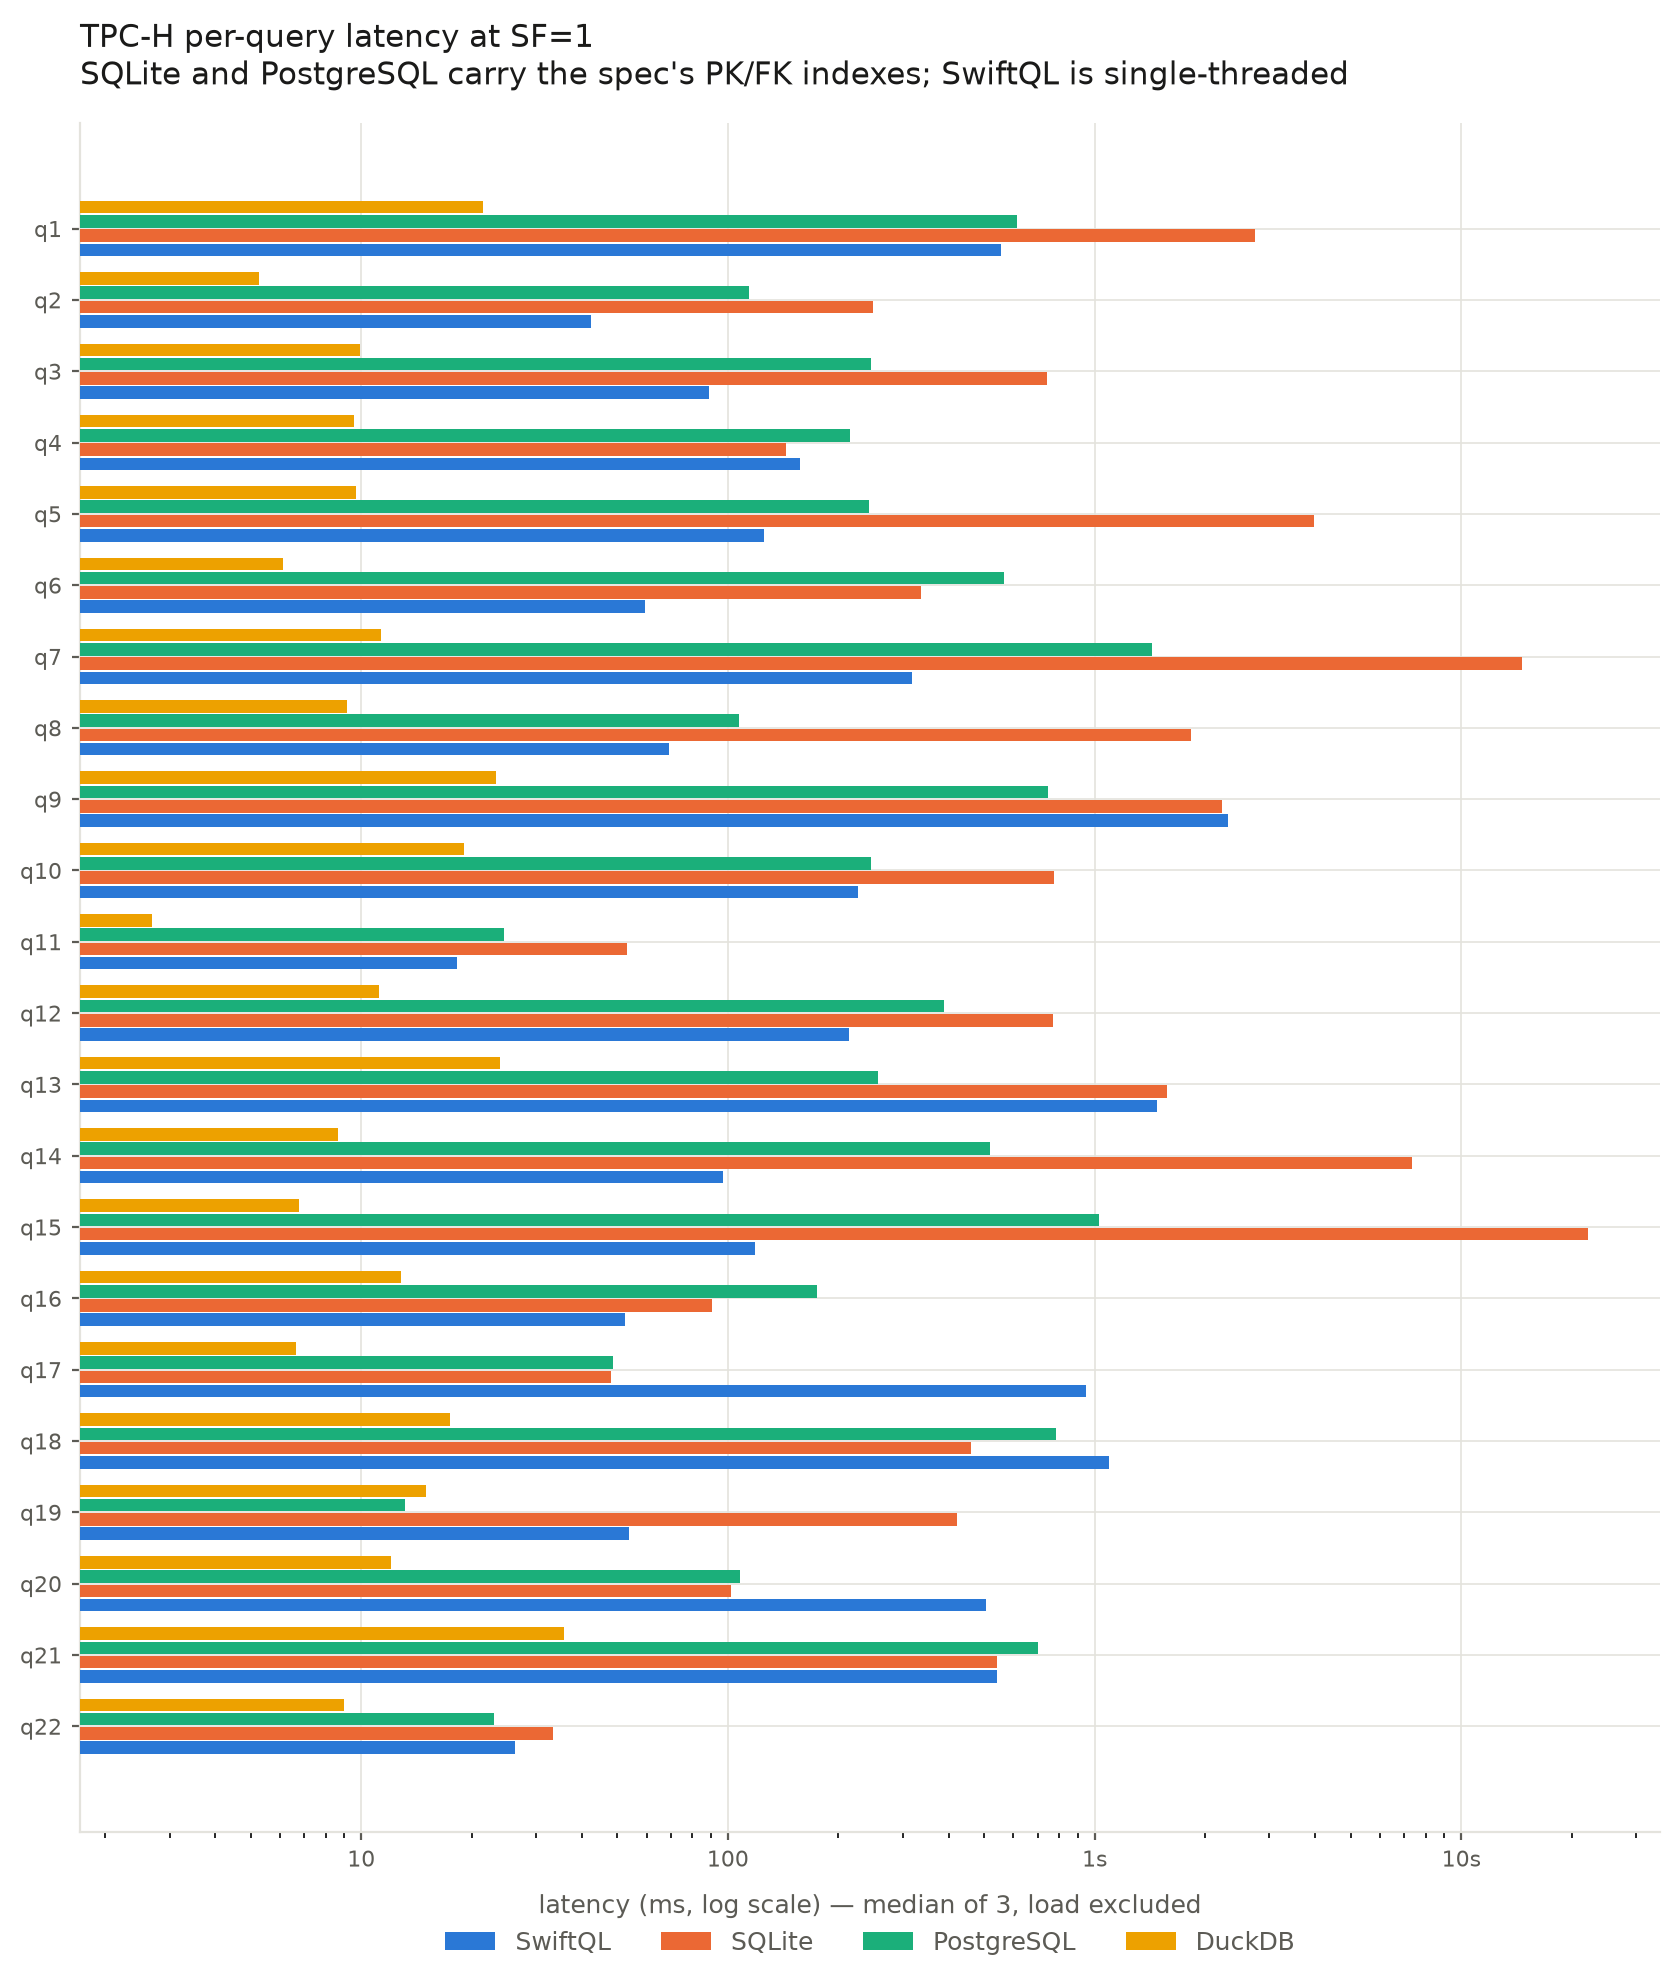
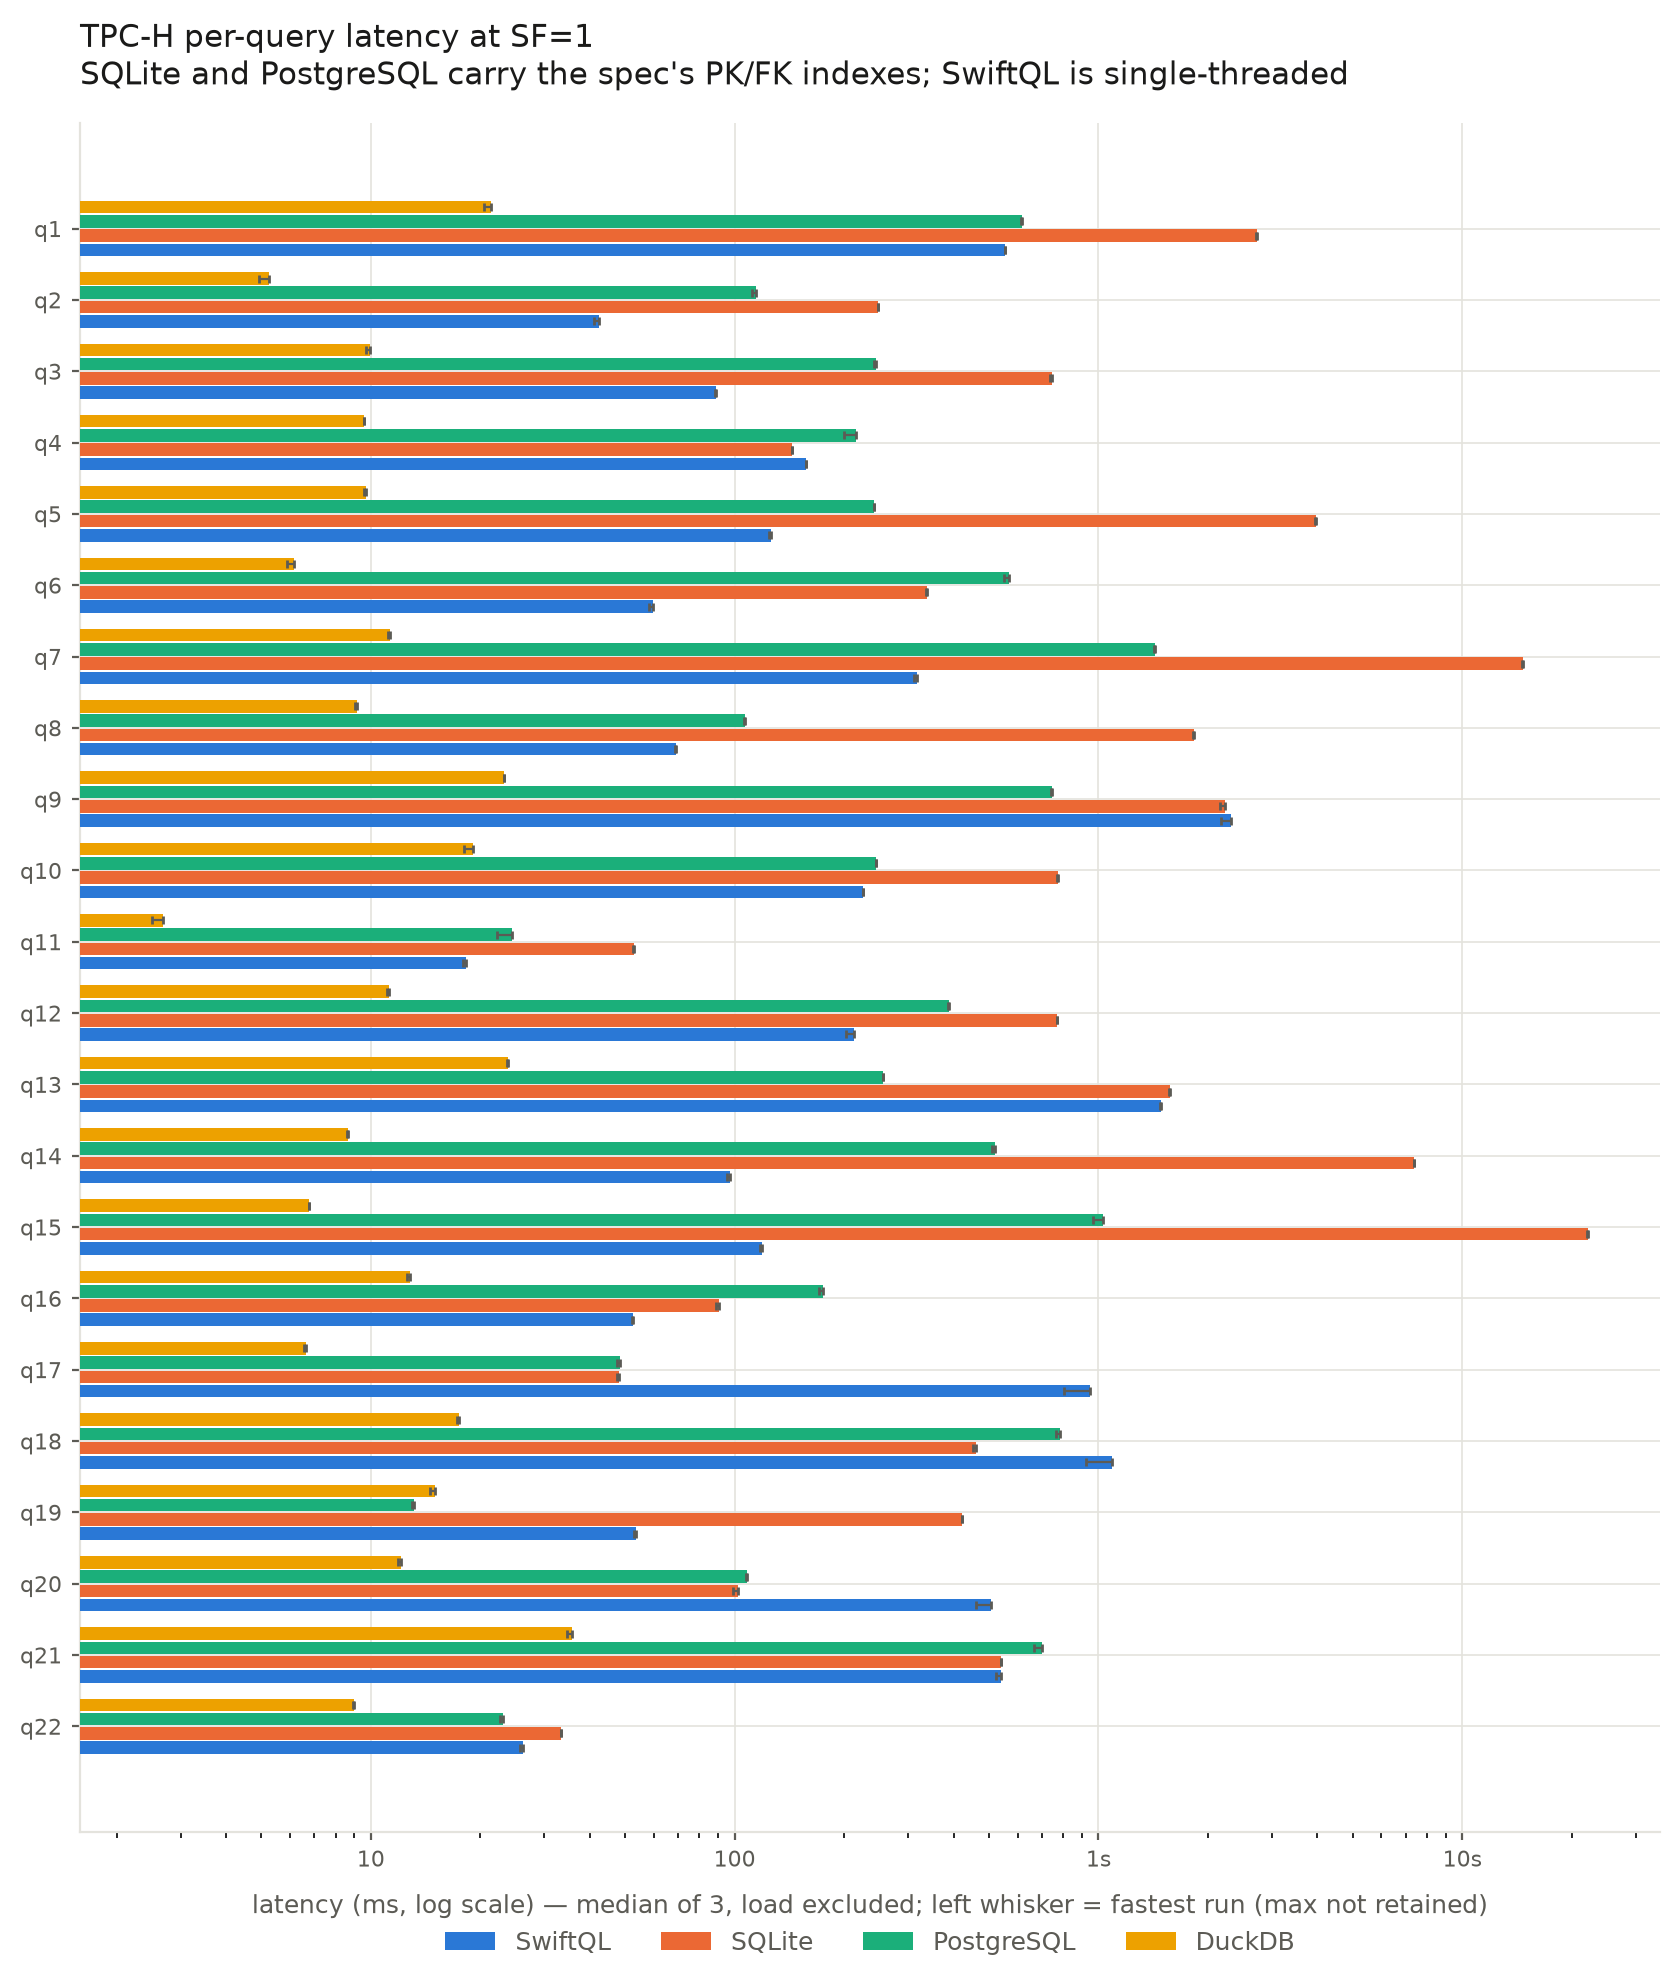
docs(figures): show the measurement uncertainty the retraction rests on
The paper now says no margin under ~1.3x on this machine is a result, but every
figure still showed a bare median. A reader could not see the thing we had just
learned.

fig5 is new: per-query SwiftQL / PostgreSQL at SF=1 over 5 repetitions, each
point carrying a bar from its best case (SwiftQL min vs PG max) to its worst
(SwiftQL max vs PG min), against a shaded band inside which a ratio cannot be
told from parity. Six of the 21 queries straddle that band, which is the visual
form of the argument in section 5.2.

fig1 gains ONE-SIDED whiskers and the axis label says so. Those three comparison
runs retained the median and the minimum only -- the maximum was not kept, and
fig5 shows the upward tail is the larger one. Drawing a symmetric bar from the
minimum would have invented the half we do not have, which is the same class of
mistake as quoting a median with no spread at all.

Changed region(s): [[0.2167, 0.9366, 0.7119, 0.9678], [0.8048, 0.9366, 0.8667, 0.9678], [0.1548, 0.9366, 0.1857, 0.9678]]

diff --git a/python_tools/make_figures.py b/python_tools/make_figures.py
@@ -92,13 +92,23 @@ def fig_per_query(sf1):
     for k, e in enumerate(engines):
         ys = [i + (1.5 - k) * h for i in range(len(qs))]
         vals = [res[f"{q}|{e}"]["ms"] for q in qs]
+        # ONE-SIDED whiskers, and the caption says so. These runs retained the
+        # median and the MINIMUM only; the maximum was not kept, and the upward
+        # tail is the larger one (see fig5). Drawing a symmetric bar from the
+        # minimum would invent the half we do not have.
+        lo = [max(v - res[f"{q}|{e}"].get("min_ms", v), 0.0)
+              for q, v in zip(qs, vals)]
         ax.barh(ys, vals, height=h * 0.88, color=COLOR[e], label=LABEL[e],
-                zorder=3, linewidth=0)
+                zorder=3, linewidth=0,
+                xerr=[lo, [0.0] * len(vals)],
+                error_kw=dict(ecolor=MUTED, elinewidth=0.8, capsize=1.5, zorder=4))
     ax.set_yticks(range(len(qs)))
     ax.set_yticklabels(qs)
     ax.invert_yaxis()
     ax.set_xscale("log")
-    ax.set_xlabel("latency (ms, log scale) — median of 3, load excluded", color=MUTED, fontsize=9, labelpad=8)
+    ax.set_xlabel("latency (ms, log scale) — median of 3, load excluded; "
+                  "left whisker = fastest run (max not retained)",
+                  color=MUTED, fontsize=9, labelpad=8)
     ax.xaxis.set_major_formatter(FuncFormatter(
         lambda v, _: f"{v:g}" if v < 1000 else f"{v/1000:g}s"))
     ax.set_title("TPC-H per-query latency at SF=1\n"
@@ -202,6 +212,61 @@ def fig_qerror(paths):
     plt.close(fig)
 
 
+# ------------------------------------------------- 5. measurement uncertainty
+
+def fig_variance(path):
+    """Per-query SwiftQL/Postgres ratio at SF=1 with min-max bars.
+
+    This is the figure the retraction rests on. A ratio chart with a parity rule
+    answers the only question that matters -- is the margin bigger than the
+    noise -- and the answer is visibly no for most queries.
+    """
+    d = load(path)
+    res = d["results"]
+    qs = [f"q{i}" for i in range(1, 23)
+          if f"q{i}|swiftql" in res
+          and res[f"q{i}|swiftql"]["rows"] == res[f"q{i}|postgres"]["rows"]]
+
+    mid, lo, hi = [], [], []
+    for q in qs:
+        a, b = res[f"{q}|swiftql"], res[f"{q}|postgres"]
+        m = a["ms"] / b["ms"]
+        mid.append(m)
+        lo.append(m - a["min_ms"] / b["max_ms"])     # best case for SwiftQL
+        hi.append(a["max_ms"] / b["min_ms"] - m)     # worst case for SwiftQL
+
+    order = sorted(range(len(qs)), key=lambda i: mid[i])
+    qs = [qs[i] for i in order]
+    mid = [mid[i] for i in order]
+    lo = [max(lo[i], 0.0) for i in order]
+    hi = [max(hi[i], 0.0) for i in order]
+
+    fig, ax = plt.subplots(figsize=(7.5, 6))
+    # The band where a ratio cannot be distinguished from parity, taken from the
+    # measured median relative spread (~11%) rather than chosen.
+    ax.axvspan(1 / 1.3, 1.3, color=GRID, zorder=1)
+    ax.annotate("within measurement noise", (1.0, len(qs) - 0.4), color=MUTED,
+                fontsize=8, ha="center")
+    ax.errorbar(mid, range(len(qs)), xerr=[lo, hi], fmt="o",
+                color=COLOR["swiftql"], ecolor=MUTED, elinewidth=1.2,
+                capsize=3, markersize=6, linewidth=0, zorder=3)
+    ax.axvline(1.0, color=MUTED, linewidth=1, linestyle=(0, (4, 3)), zorder=2)
+    ax.set_yticks(range(len(qs)))
+    ax.set_yticklabels(qs)
+    ax.set_xscale("log")
+    ax.xaxis.set_major_formatter(FuncFormatter(lambda v, _: f"{v:g}x"))
+    ax.set_xlabel("SwiftQL ÷ PostgreSQL, 5 repetitions "
+                  "(bar = best case to worst case)", color=MUTED, fontsize=9)
+    ax.set_title("Why the SF=1 PostgreSQL result is reported as a tie\n"
+                 "geometric mean 0.93x, but the interval spans parity "
+                 "(0.80x best, 1.08x worst)",
+                 color=INK, fontsize=11, loc="left", pad=10)
+    style(ax)
+    fig.tight_layout()
+    fig.savefig(f"{OUT}/fig5-variance-sf1.png", dpi=200, bbox_inches="tight")
+    plt.close(fig)
+
+
 def main():
     os.makedirs(OUT, exist_ok=True)
     files = [f"docs/week-37-engine-comparison-sf{s}.json" for s in ("0.01", "0.1", "1")]
@@ -214,6 +279,9 @@ def main():
     fig_optimizer(sf1)
     fig_qerror([("SF=0.1", "docs/week-37-qerror-sf0.1.json"),
                 ("SF=1", "docs/week-37-qerror-sf1.json")])
+    var = "docs/week-38-variance-sf1.json"
+    if os.path.exists(var):
+        fig_variance(var)
     for f in sorted(os.listdir(OUT)):
         print(f"  {OUT}/{f}")
 

diff --git a/docs/paper.md b/docs/paper.md
@@ -232,6 +232,12 @@ PostgreSQL, and loses ground to DuckDB, monotonically in all three cases.*
 *Figure 3 — optimizer impact per query at SF=1. Bimodal: a query either has a
 rewritable shape or it does not.*
 
+![Measurement uncertainty](figures/fig5-variance-sf1.png)
+*Figure 5 — per-query SwiftQL ÷ PostgreSQL at SF=1 over 5 repetitions, bar
+spanning best case to worst case, with the band inside which a ratio cannot be
+distinguished from parity. Six queries straddle it. This figure is why §5.2
+reports a tie rather than a win.*
+
 ![q-error](figures/fig4-qerror.png)
 *Figure 4 — cardinality-estimation accuracy. The medians are close; the SF=1
 curve falls below the SF=0.1 curve in the tail, which is the independence
